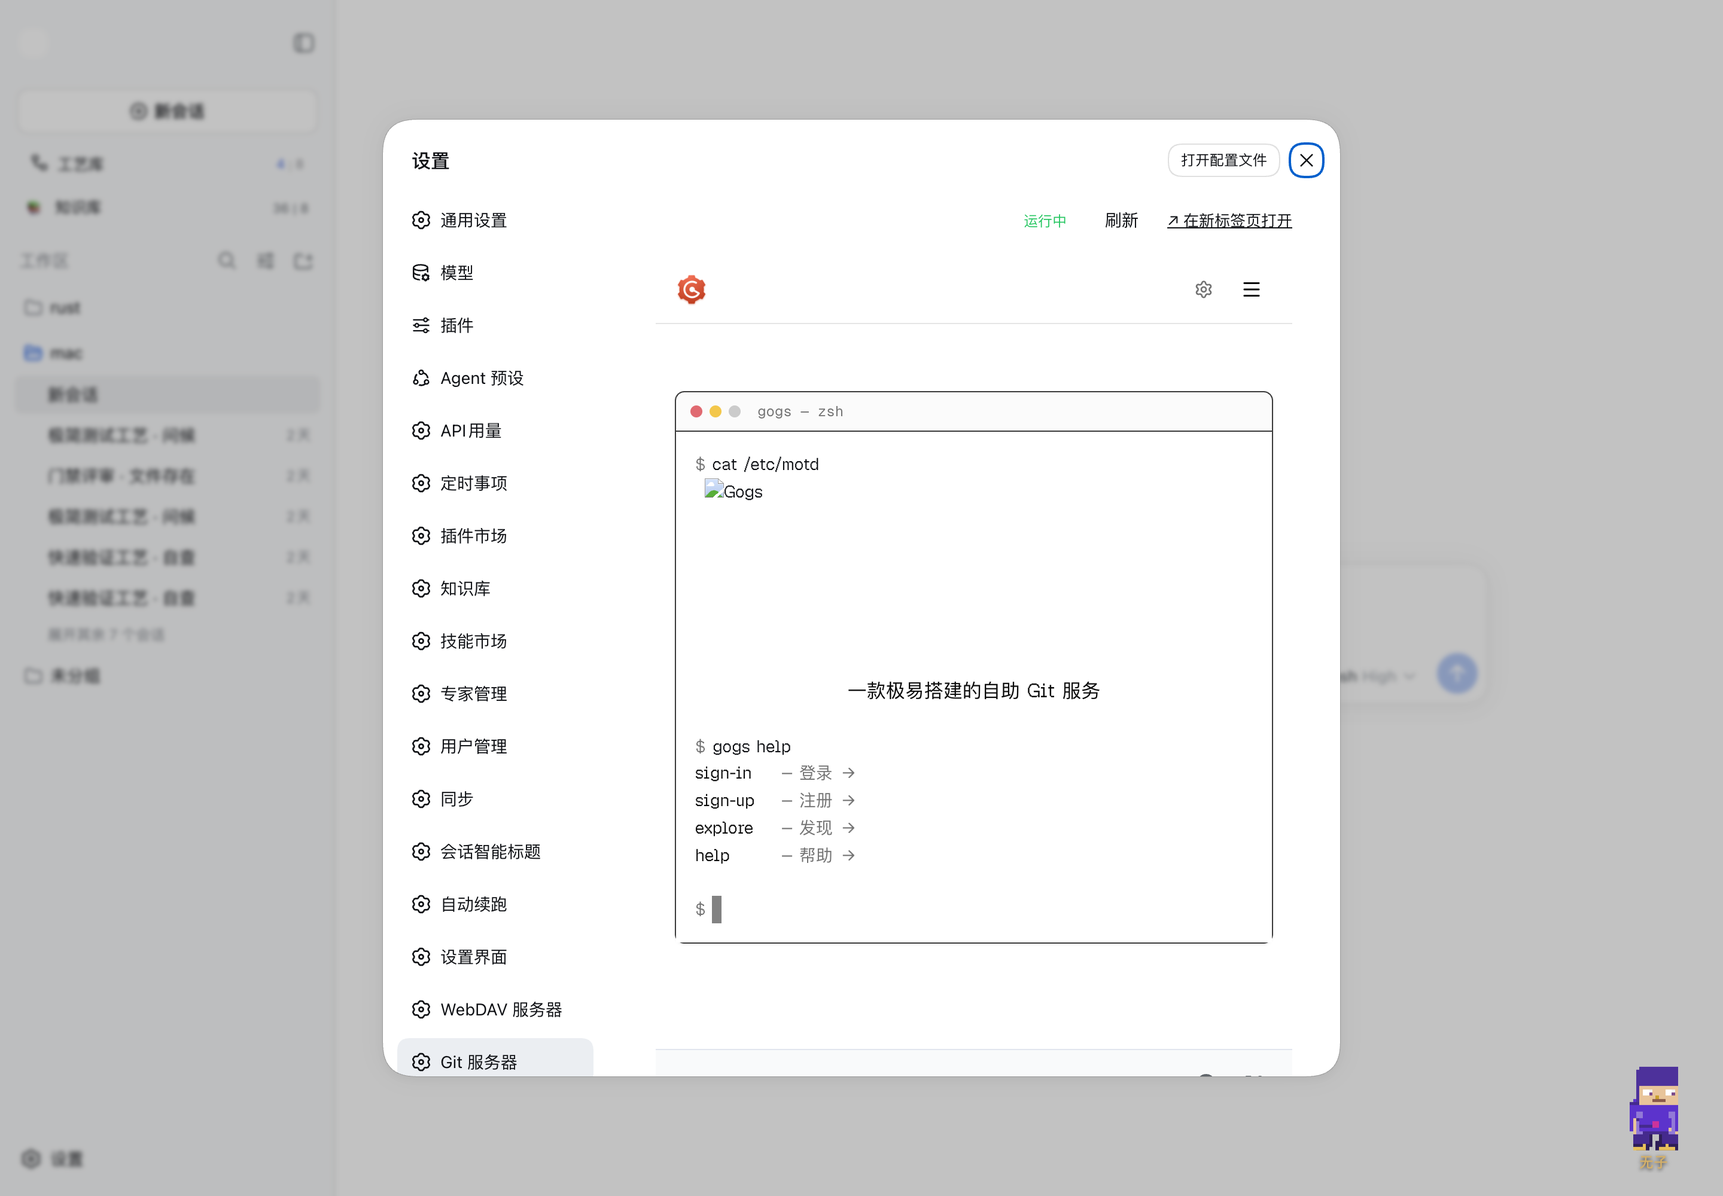
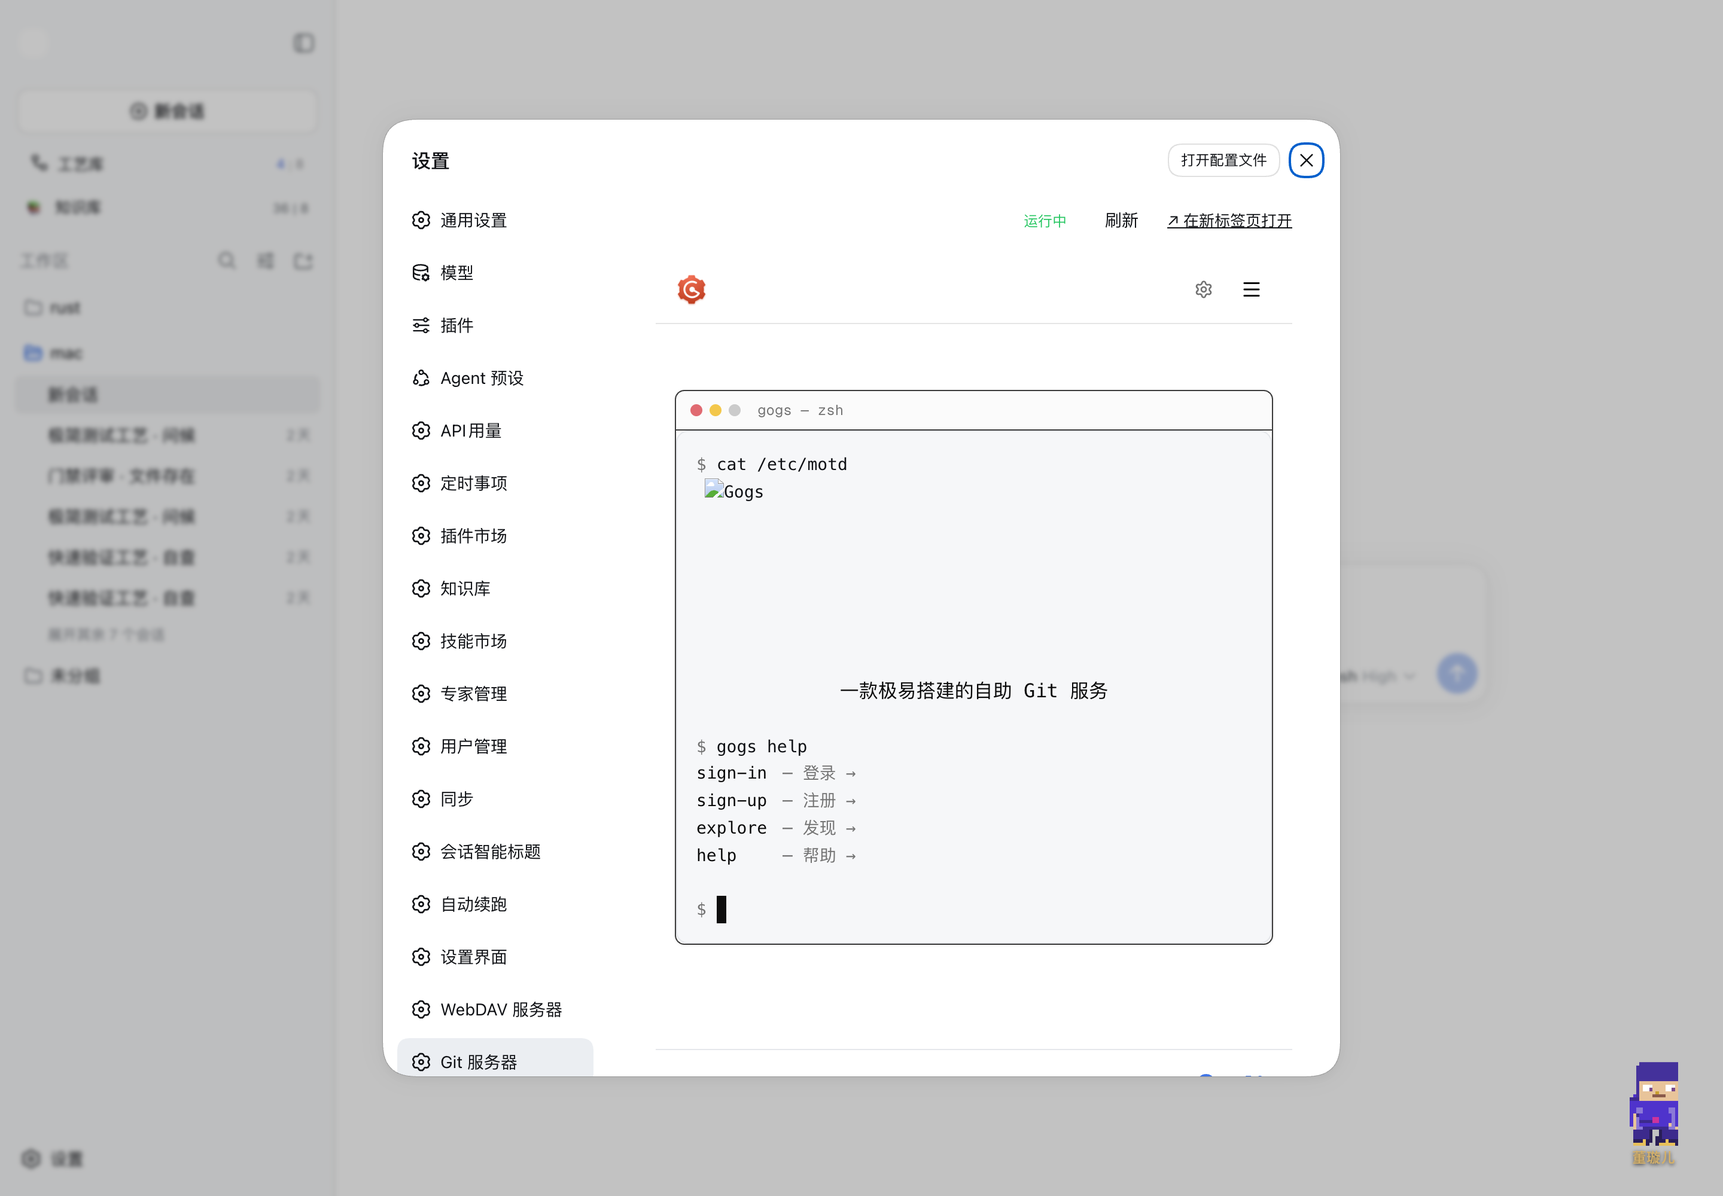
Frontend overhaul: full dsh design language on the server UI
- dsh-theme.css rewritten from a token remap into a complete skin:
  dsh font stack, card-radius/shadow system, sticky blurred header
  with pill nav + gradient brand mark 'Git', modern buttons/inputs
  (focus ring + brand tint), card-row tables, pill menus/tabs,
  rounded labels/modals/messages, code & markdown blocks, circular
  avatars, themed popups/progress/scrollbars/selection
- head.tmpl: favicon <img> brand replaced by gradient mark + text;
  body gets .dsh-embed when served through the dsh proxy
- embed mode: compact header, footer hidden, fluid container width
- docs: refreshed light/dark screenshots of the reskinned repo page

diff --git a/server/public/css/dsh-theme.css b/server/public/css/dsh-theme.css
@@ -1,151 +1,252 @@
 /*
- * dsh 主题适配层 —— 把 dsh 的 --dsw-alias-* token 映射到 gogs (semantic-ui) 的样式。
- * 亮色：:root 基础；暗色：[data-ds-dark-theme] 覆盖。
- * token 由 head.tmpl 的引导脚本从 localStorage 恢复（代理写入）。
+ * dsh Git 界面皮肤 —— 把 gogs(semantic-ui) DOM 完整重绘为 dsh 设计语言。
+ * 亮色 :root / 暗色 html[data-ds-dark-theme]；token 快照由引导脚本注入。
+ * 嵌入态 body.dsh-embed：紧凑页头、隐藏页脚（iframe 内节省纵向空间）。
  */
 :root {
   --gogs-bg: #ffffff;
-  --gogs-bg-alt: #f9fafb;
+  --gogs-bg-alt: #f7f8fa;
   --gogs-bg-inset: #f1f3f5;
   --gogs-text: #0f1115;
-  --gogs-text-secondary: #61666b;
-  --gogs-border: #e1e5ee;
+  --gogs-text-2: #61666b;
+  --gogs-text-3: #979da6;
+  --gogs-border: #e5e7eb;
+  --gogs-border-2: #d5d9e0;
   --gogs-brand: #4176e6;
+  --gogs-brand-weak: #4176e61a;
   --gogs-brand-hover: #5686fe;
-  --gogs-header-bg: #ffffff;
-  --gogs-header-text: #0f1115;
-  --gogs-code-bg: #f5f6f7;
+  --gogs-code-bg: #f6f7f9;
+  --gogs-shadow: 0 1px 2px 0 rgb(0 0 0 / 4%), 0 2px 8px 0 rgb(0 0 0 / 4%);
+  --gogs-shadow-lift: 0 2px 4px 0 rgb(0 0 0 / 5%), 0 8px 24px 0 rgb(0 0 0 / 8%);
+  --gogs-radius: 10px;
+  --gogs-radius-s: 7px;
+  --gogs-font: -apple-system, BlinkMacSystemFont, "PingFang SC", "Segoe UI",
+    "Microsoft YaHei", "Helvetica Neue", Arial, sans-serif;
 }
 html[data-ds-dark-theme] {
   --gogs-bg: #151517;
   --gogs-bg-alt: #1b1b1c;
   --gogs-bg-inset: #232324;
-  --gogs-text: #f9fafb;
-  --gogs-text-secondary: #979da6;
+  --gogs-text: #f3f4f6;
+  --gogs-text-2: #a8adb5;
+  --gogs-text-3: #7c8188;
   --gogs-border: #2c2c2e;
+  --gogs-border-2: #3a3a3d;
   --gogs-brand: #5686fe;
+  --gogs-brand-weak: #5686fe26;
   --gogs-brand-hover: #679efe;
-  --gogs-header-bg: #151517;
-  --gogs-header-text: #f9fafb;
   --gogs-code-bg: #1b1b1c;
+  --gogs-shadow: 0 1px 2px 0 rgb(0 0 0 / 24%), 0 2px 8px 0 rgb(0 0 0 / 20%);
+  --gogs-shadow-lift: 0 2px 4px 0 rgb(0 0 0 / 28%), 0 8px 24px 0 rgb(0 0 0 / 32%);
 }
 
-/* ── 基础 ─────────────────────────────────────────────── */
+/* ── 基础 ─────────────────────────────────────────────────── */
+html { color-scheme: light dark; }
 body {
   background: var(--gogs-bg) !important;
   color: var(--gogs-text) !important;
+  font-family: var(--gogs-font) !important;
+  font-size: 14px !important;
+  line-height: 1.6 !important;
+  -webkit-font-smoothing: antialiased;
 }
-/* 顶栏 */
-.following.bar.light {
-  background: var(--gogs-header-bg) !important;
-  border-bottom: 1px solid var(--gogs-border) !important;
-}
-.following.bar .ui.menu .item, .following.bar a, .following.bar .brand {
-  color: var(--gogs-header-text) !important;
-}
-.following.bar .ui.menu .active.item, .following.bar .ui.dropdown .menu .item:hover {
-  background: var(--gogs-bg-inset) !important;
-}
-/* 链接 */
-a, .ui.breadcrumb a { color: var(--gogs-brand) !important; }
+::selection { background: var(--gogs-brand-weak); }
+a, .ui.breadcrumb a, .ui.breadcrumb .divider { color: var(--gogs-brand) !important; }
 a:hover { color: var(--gogs-brand-hover) !important; }
-/* 卡片/分段（仓库首页、issue 列表等） */
-.ui.segment, .ui.card, .ui.attached.segment, .ui.table.segment,
-.ui.tabs.container > .ui.tabular.menu .item.active {
+:focus-visible { outline: 2px solid var(--gogs-brand); outline-offset: 1px; border-radius: 4px; }
+h1, h2, h3, h4, h5 { color: var(--gogs-text) !important; }
+
+/* ── 顶栏：dsh 风格（毛玻璃 + 细边 + 胶囊导航） ─────────────── */
+.following.bar.light {
+  position: sticky; top: 0; z-index: 100;
+  background: color-mix(in srgb, var(--gogs-bg) 86%, transparent) !important;
+  -webkit-backdrop-filter: saturate(1.4) blur(14px);
+  backdrop-filter: saturate(1.4) blur(14px);
+  border-bottom: 1px solid var(--gogs-border) !important;
+  box-shadow: none !important;
+  padding: 0 !important;
+}
+.following.bar .ui.grid > .column { padding-top: 8px !important; padding-bottom: 8px !important; }
+.following.bar .ui.secondary.menu { background: transparent !important; }
+.following.bar .item { color: var(--gogs-text-2) !important; border-radius: 8px !important;
+  padding: 6px 12px !important; margin: 0 1px !important; font-weight: 500 !important; transition: all .15s ease; }
+.following.bar .item:hover { background: var(--gogs-bg-inset) !important; color: var(--gogs-text) !important; }
+.following.bar .item.active { background: var(--gogs-brand-weak) !important; color: var(--gogs-brand) !important; }
+.following.bar a.brand { display: flex; align-items: center; gap: 8px; padding: 6px 10px !important; }
+.dsh-brand-mark { width: 18px; height: 18px; border-radius: 5px; flex: none;
+  background: linear-gradient(135deg, var(--gogs-brand), var(--gogs-brand-hover));
+  box-shadow: inset 0 0 0 1px rgb(255 255 255 / 25%); }
+.dsh-brand-name { font-weight: 700 !important; font-size: 15px !important; color: var(--gogs-text) !important; letter-spacing: .2px; }
+.following.bar .avatar.image, .following.bar img.ui.rounded.image {
+  border-radius: 999px !important; width: 26px !important; height: 26px !important; object-fit: cover;
+  border: 1px solid var(--gogs-border-2);
+}
+
+/* ── 卡片 / 分段 ─────────────────────────────────────────── */
+.ui.segment, .ui.attached.segment, .ui.cards > .ui.card, .ui.card {
   background: var(--gogs-bg) !important;
   color: var(--gogs-text) !important;
-  border-color: var(--gogs-border) !important;
+  border: 1px solid var(--gogs-border) !important;
+  border-radius: var(--gogs-radius) !important;
+  box-shadow: var(--gogs-shadow) !important;
 }
+.ui.attached.segment + .ui.attached.segment { border-top: 1px solid var(--gogs-border) !important; }
+.ui.dividing.header { border-bottom: 1px solid var(--gogs-border) !important; }
 .ui.divider { border-color: var(--gogs-border) !important; }
-/* 表格 */
-.ui.table {
-  background: var(--gogs-bg) !important;
+.ui.top.attached.header, .ui.attached.header {
+  background: var(--gogs-bg-alt) !important;
   color: var(--gogs-text) !important;
-  border-color: var(--gogs-border) !important;
+  border: 1px solid var(--gogs-border) !important;
+  border-radius: var(--gogs-radius) var(--gogs-radius) 0 0 !important;
+  font-weight: 600 !important;
 }
-.ui.table thead th { background: var(--gogs-bg-alt) !important; color: var(--gogs-text-secondary) !important; }
-.ui.table tr td { border-color: var(--gogs-border) !important; }
-.ui.table tr:hover td { background: var(--gogs-bg-alt) !important; }
-/* 输入框 */
-.ui.input input, input, textarea, select,
+.ui.attached.header + .ui.attached.segment { border-radius: 0 0 var(--gogs-radius) var(--gogs-radius) !important; }
+
+/* ── 按钮 ─────────────────────────────────────────────────── */
+.ui.button {
+  border-radius: 8px !important;
+  font-family: var(--gogs-font) !important;
+  font-weight: 500 !important;
+  box-shadow: none !important;
+  transition: all .15s ease !important;
+}
+.ui.primary.button, .ui.blue.button, .ui.green.button, .ui.positive.button, .ui.teal.button {
+  background: var(--gogs-brand) !important; color: #fff !important; border: none !important;
+}
+.ui.primary.button:hover, .ui.blue.button:hover, .ui.green.button:hover, .ui.positive.button:hover, .ui.teal.button:hover {
+  background: var(--gogs-brand-hover) !important;
+}
+.ui.green.button, .ui.positive.button { background: #22c55e !important; }
+.ui.green.button:hover, .ui.positive.button:hover { background: #4ed17e !important; }
+.ui.red.button, .ui.negative.button { background: #ef4444 !important; color: #fff !important; }
+.ui.red.button:hover { background: #f25a5a !important; }
+.ui.basic.button {
+  background: transparent !important; color: var(--gogs-text-2) !important;
+  border: 1px solid var(--gogs-border-2) !important; box-shadow: none !important;
+}
+.ui.basic.button:hover { background: var(--gogs-bg-inset) !important; color: var(--gogs-text) !important; }
+.ui.basic.primary.button, .ui.basic.blue.button, .ui.basic.green.button {
+  color: var(--gogs-brand) !important; border-color: var(--gogs-brand) !important; background: transparent !important;
+}
+.ui.basic.blue.button:hover { background: var(--gogs-brand-weak) !important; }
+.ui.mini.button, .ui.tiny.button { border-radius: 6px !important; }
+
+/* ── 输入 ─────────────────────────────────────────────────── */
+.ui.input input, input:not([type=checkbox]):not([type=radio]), textarea, select,
 .ui.form input, .ui.form textarea, .ui.selection.dropdown {
   background: var(--gogs-bg) !important;
   color: var(--gogs-text) !important;
-  border-color: var(--gogs-border) !important;
+  border: 1px solid var(--gogs-border-2) !important;
+  border-radius: 8px !important;
+  font-family: var(--gogs-font) !important;
+  transition: border-color .15s ease, box-shadow .15s ease !important;
 }
-.ui.input input:focus, input:focus, textarea:focus {
+.ui.input input:focus, input:focus, textarea:focus, select:focus {
   border-color: var(--gogs-brand) !important;
+  box-shadow: 0 0 0 3px var(--gogs-brand-weak) !important;
 }
-::placeholder { color: var(--gogs-text-secondary) !important; opacity: 0.7 !important; }
-/* 按钮：主按钮用 dsh 品牌色 */
-.ui.primary.button, .ui.blue.button, .ui.green.button, .ui.positive.button {
-  background: var(--gogs-brand) !important;
-  color: #fff !important;
-  border: none !important;
+::placeholder { color: var(--gogs-text-3) !important; opacity: 1 !important; }
+.ui.checkbox label, .ui.checkbox + label { color: var(--gogs-text-2) !important; }
+.ui.toggle.checkbox input:checked ~ label, .ui.checkbox input:checked ~ label { color: var(--gogs-brand) !important; }
+.ui.toggle.checkbox input:checked ~ .box, .ui.toggle.checkbox input:checked ~ label:before { background: var(--gogs-brand) !important; }
+
+/* ── 表格 ─────────────────────────────────────────────────── */
+.ui.table {
+  background: transparent !important; color: var(--gogs-text) !important;
+  border: none !important; border-collapse: separate !important; border-spacing: 0 4px !important;
 }
-.ui.primary.button:hover, .ui.blue.button:hover, .ui.green.button:hover, .ui.positive.button:hover {
-  background: var(--gogs-brand-hover) !important;
+.ui.table thead th {
+  background: transparent !important; color: var(--gogs-text-3) !important;
+  border: none !important; font-size: 12px !important; text-transform: uppercase; letter-spacing: .4px;
+  padding: 6px 12px !important;
 }
-.ui.basic.button {
-  background: transparent !important;
-  color: var(--gogs-text) !important;
-  border: 1px solid var(--gogs-border) !important;
+.ui.table tbody tr { background: var(--gogs-bg) !important; }
+.ui.table tbody tr td {
+  border-top: 1px solid var(--gogs-border) !important;
+  border-bottom: 1px solid var(--gogs-border) !important;
+  padding: 10px 12px !important;
 }
-.ui.basic.button:hover { background: var(--gogs-bg-alt) !important; }
-.ui.basic.primary.button, .ui.basic.blue.button, .ui.basic.green.button {
-  color: var(--gogs-brand) !important;
-  border-color: var(--gogs-brand) !important;
-}
-/* 菜单/导航 */
-.ui.menu {
-  background: var(--gogs-bg) !important;
-  color: var(--gogs-text) !important;
-  border-color: var(--gogs-border) !important;
-}
-.ui.menu .item { color: var(--gogs-text-secondary) !important; }
-.ui.menu .active.item {
-  color: var(--gogs-brand) !important;
-  background: var(--gogs-bg-alt) !important;
-}
-.ui.tabular.menu .active.item {
-  border-color: var(--gogs-border) var(--gogs-border) var(--gogs-bg) !important;
-}
+.ui.table tbody tr td:first-child { border-left: 1px solid var(--gogs-border); border-radius: 8px 0 0 8px; }
+.ui.table tbody tr td:last-child { border-right: 1px solid var(--gogs-border); border-radius: 0 8px 8px 0; }
+.ui.table tbody tr:hover td { background: var(--gogs-bg-alt) !important; }
+
+/* ── 菜单 / 标签页 ────────────────────────────────────────── */
+.ui.menu { background: transparent !important; border: none !important; }
+.ui.menu .item { color: var(--gogs-text-2) !important; border-radius: 8px !important; }
+.ui.menu .item:hover { background: var(--gogs-bg-inset) !important; color: var(--gogs-text) !important; }
+.ui.menu .item.active { background: var(--gogs-brand-weak) !important; color: var(--gogs-brand) !important; font-weight: 600 !important; }
+.ui.secondary.pointing.menu .item { border: none !important; }
+.ui.tabular.menu { border-bottom: 1px solid var(--gogs-border) !important; }
+.ui.tabular.menu .item { border: none !important; border-radius: 8px 8px 0 0 !important; background: transparent !important; }
+.ui.tabular.menu .active.item { background: var(--gogs-bg) !important; border: 1px solid var(--gogs-border) !important;
+  border-bottom: 1px solid var(--gogs-bg) !important; margin-bottom: -1px; }
 .ui.dropdown .menu {
-  background: var(--gogs-bg) !important;
-  border-color: var(--gogs-border) !important;
+  background: var(--gogs-bg) !important; border: 1px solid var(--gogs-border) !important;
+  border-radius: var(--gogs-radius) !important; box-shadow: var(--gogs-shadow-lift) !important; padding: 4px !important;
 }
-.ui.dropdown .menu .item { color: var(--gogs-text) !important; }
-.ui.dropdown .menu .item:hover { background: var(--gogs-bg-alt) !important; }
-/* 标签（label 徽章） */
+.ui.dropdown .menu .item { border-radius: 6px !important; color: var(--gogs-text) !important; }
+.ui.dropdown .menu .item:hover { background: var(--gogs-bg-inset) !important; }
+.ui.dropdown .menu .header { color: var(--gogs-text-3) !important; }
+.ui.vertical.menu { background: var(--gogs-bg) !important; border: 1px solid var(--gogs-border) !important; border-radius: var(--gogs-radius) !important; padding: 4px !important; }
+.ui.vertical.menu .item { border: none !important; }
+
+/* ── 标签 / 徽章 ──────────────────────────────────────────── */
 .ui.label {
-  background: var(--gogs-bg-inset) !important;
-  color: var(--gogs-text) !important;
-  border: 1px solid var(--gogs-border) !important;
+  background: var(--gogs-bg-inset) !important; color: var(--gogs-text-2) !important;
+  border: 1px solid var(--gogs-border) !important; border-radius: 6px !important; font-weight: 500 !important;
 }
-.ui.blue.label { background: var(--gogs-brand) !important; color: #fff !important; border: none !important; }
+.ui.blue.label, .ui.label.blue { background: var(--gogs-brand) !important; color: #fff !important; border: none !important; }
 .ui.green.label { background: #22c55e !important; color: #fff !important; border: none !important; }
 .ui.red.label { background: #ef4444 !important; color: #fff !important; border: none !important; }
-.ui.gray.label { background: var(--gogs-bg-inset) !important; }
-/* 代码视图 / markdown */
-.code-view, .markdown, pre, code, .file-content {
-  background: var(--gogs-bg) !important;
-  color: var(--gogs-text) !important;
+.ui.label.sha { font-family: ui-monospace, SFMono-Regular, Menlo, monospace !important; }
+.octicon { fill: currentColor; }
+
+/* ── 代码 / markdown ──────────────────────────────────────── */
+pre, code, .code-view, .file-content, .markdown, kbd {
+  font-family: ui-monospace, SFMono-Regular, Menlo, Consolas, monospace !important;
 }
-.hljs { background: var(--gogs-bg-alt) !important; color: var(--gogs-text) !important; }
-.markdown code { background: var(--gogs-code-bg) !important; }
-.markdown pre { background: var(--gogs-code-bg) !important; }
-/* 弹窗 */
-.ui.modal {
-  background: var(--gogs-bg) !important;
-  color: var(--gogs-text) !important;
-  border: 1px solid var(--gogs-border) !important;
-}
-.ui.modal > .header { background: var(--gogs-bg-alt) !important; color: var(--gogs-text) !important; }
-/* 页脚 */
-footer { background: var(--gogs-bg-alt) !important; color: var(--gogs-text-secondary) !important; border-top: 1px solid var(--gogs-border) !important; }
-footer a { color: var(--gogs-text-secondary) !important; }
-/* 滚动条 */
+pre, .code-view, .markdown pre { background: var(--gogs-code-bg) !important; color: var(--gogs-text) !important;
+  border-radius: var(--gogs-radius) !important; border: 1px solid var(--gogs-border) !important; }
+.markdown code { background: var(--gogs-bg-inset) !important; border-radius: 5px; padding: 1px 5px; }
+.markdown pre code { background: transparent !important; padding: 0; }
+.hljs { background: transparent !important; color: var(--gogs-text) !important; }
+.file-view .code, .code-view tbody td { border-color: var(--gogs-border) !important; }
+.line-numbers { background: var(--gogs-bg-alt) !important; color: var(--gogs-text-3) !important;
+  border-right: 1px solid var(--gogs-border) !important; user-select: none; }
+
+/* ── 弹窗 / 提示 ──────────────────────────────────────────── */
+.ui.modal { background: var(--gogs-bg) !important; border: 1px solid var(--gogs-border) !important;
+  border-radius: 14px !important; box-shadow: var(--gogs-shadow-lift) !important; }
+.ui.modal > .header { background: var(--gogs-bg-alt) !important; color: var(--gogs-text) !important;
+  border-bottom: 1px solid var(--gogs-border) !important; border-radius: 14px 14px 0 0 !important; }
+.ui.modal .actions { background: var(--gogs-bg-alt) !important; border-top: 1px solid var(--gogs-border) !important; }
+.ui.message { border-radius: var(--gogs-radius) !important; border: 1px solid var(--gogs-border) !important;
+  background: var(--gogs-bg-alt) !important; color: var(--gogs-text) !important; box-shadow: none !important; }
+.ui.positive.message { border-color: #22c55e66 !important; background: #22c55e12 !important; }
+.ui.negative.message { border-color: #ef444455 !important; background: #ef44440f !important; }
+.ui.popup, [data-tooltip]:after { background: var(--gogs-text) !important; color: var(--gogs-bg) !important; border: none !important; }
+
+/* ── 进度 / 头像 / 杂项 ───────────────────────────────────── */
+.ui.progress .bar { background: var(--gogs-brand) !important; border-radius: 999px !important; }
+img.ui.avatar.image, img.ui.rounded.image { border-radius: 999px !important; }
+.repository .ui.action.small.input input { border-radius: 8px 0 0 8px !important; }
+.ui.action.input .button { border-radius: 0 8px 8px 0 !important; }
+.ui.action.input .button + .button { border-radius: 0 !important; }
+.ui.action.input .button:last-child { border-radius: 0 8px 8px 0 !important; }
+footer, .footer { background: transparent !important; border-top: 1px solid var(--gogs-border) !important;
+  color: var(--gogs-text-3) !important; }
+footer .ui.language.dropdown { color: var(--gogs-text-3) !important; }
 ::-webkit-scrollbar { width: 10px; height: 10px; }
-::-webkit-scrollbar-thumb { background: var(--gogs-border); border-radius: 6px; }
-::-webkit-scrollbar-thumb:hover { background: var(--gogs-text-secondary); }
+::-webkit-scrollbar-thumb { background: var(--gogs-border-2); border-radius: 6px; border: 2px solid var(--gogs-bg); }
+::-webkit-scrollbar-thumb:hover { background: var(--gogs-text-3); }
 ::-webkit-scrollbar-track { background: transparent; }
+
+/* ── 嵌入态（iframe 内）：紧凑页头、隐藏页脚 ───────────────── */
+body.dsh-embed .following.bar.light .ui.grid > .column { padding-top: 4px !important; padding-bottom: 4px !important; }
+body.dsh-embed .following.bar .item { padding: 4px 10px !important; font-size: 13px !important; }
+body.dsh-embed .following.bar .item.brand { padding: 3px 8px !important; }
+body.dsh-embed footer { display: none !important; }
+body.dsh-embed .ui.container { width: calc(100% - 32px) !important; margin-left: auto !important; margin-right: auto !important; }
+body.dsh-embed .full.height { min-height: 100vh; display: flex; flex-direction: column; }
+body.dsh-embed .following.bar.light + .full.height,
+body.dsh-embed .full.height > .following.bar.light { flex: none; }
